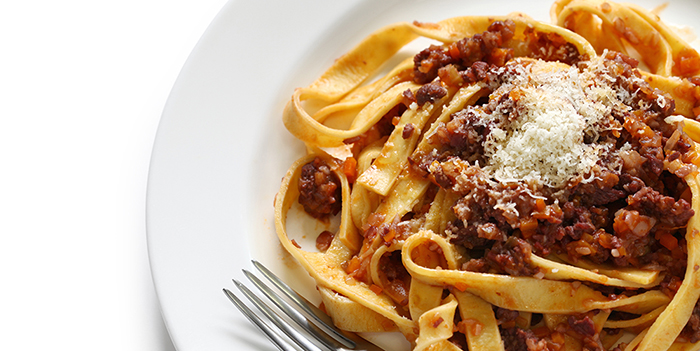
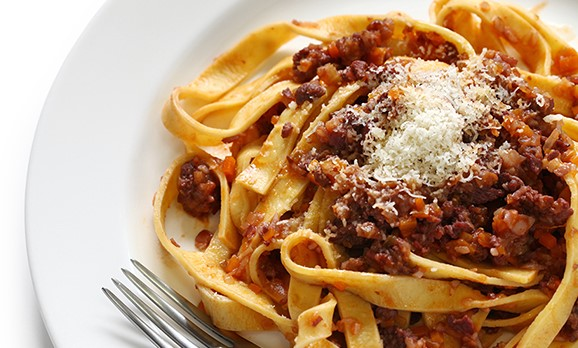
cropping the image for better position and adding all the items

diff --git a/pickup.html b/pickup.html
@@ -17,6 +17,51 @@
       <p align: center>Beef</p>
       <button>More info</button>
     </div>
+    <div class="card_available_items1">
+      <img src="images/cheese.jpeg" alt="Cheese image" align:"left" height="100px" width="150px">
+      <p align: center>Cheese</p>
+      <button>More info</button>
+    </div>
+    <div class="card_available_items1">
+      <img src="images/eggs.jpeg" alt="Eggs image" align:"left" height="100px" width="150px">
+      <p align: center>Eggs</p>
+      <button>More info</button>
+    </div>
+    <div class="card_available_items1">
+      <img src="images/nuts.jpeg" alt="Nuts image" align:"left" height="100px" width="150px">
+      <p align: center>Nuts</p>
+      <button>More info</button>
+    </div>
+    <div class="card_available_items1">
+      <img src="images/pancake.jpeg" alt="Pancake image" align:"left" height="100px" width="70px">
+      <p align: center>Pancake</p>
+      <button>More info</button>
+    </div>
+    <div class="card_available_items1">
+      <img src="images/pasta.jpeg" alt="Pasta image" align:"left" height="100px" width="150px">
+      <p align: center>Pasta</p>
+      <button>More info</button>
+    </div>
+    <div class="card_available_items1">
+      <img src="images/salad.jpeg" alt="Salad image" align:"left" height="100px" width="70px">
+      <p align: center>Salad</p>
+      <button>More info</button>
+    </div>
+    <div class="card_available_items1">
+      <img src="images/samosa.jpeg" alt="Samosa image" align:"left" height="100px" width="150px">
+      <p align: center>Samosa</p>
+      <button>More info</button>
+    </div>
+    <div class="card_available_items1">
+      <img src="images/torrono.jpeg" alt="Torrono image" align:"left" height="100px" width="150px">
+      <p align: center>Torrono</p>
+      <button>More info</button>
+    </div>
+    <div class="card_available_items1">
+      <img src="images/yogurt.jpeg" alt="Yogurt image" align:"left" height="100px" width="150px">
+      <p align: center>Yogurt</p>
+      <button>More info</button>
+    </div>
     <div class="navbar">
       <a href="donate.html" >Donate</a>
       <a href="index.html">Home</a>
